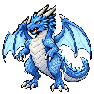
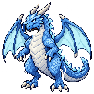
Preserve original dragon face pixels and animate only jaw

Changed region(s): [[0.0851, 0.0213, 0.5957, 0.4255]]

diff --git a/design/enemies/dragon_frost/attack/PROMPT.md b/design/enemies/dragon_frost/attack/PROMPT.md
@@ -1,1 +1,1 @@
-Built-in image_gen edit. Reference: ../move/dragon_frost_1.png. Four-frame open-mouth loop. NO FIRE or particles. Frame1 exact original file. Frames2-4 original body pixels retained, only head/neck area edited. Closed to partial open to full open to partial close. Preserve compact original face and BLUE CYAN EYES, no orange eyes., jaws open, ivory teeth visible. Frame1 medium gape, frame2 wider, frame3 maximum, frame4 return. Preserve blue pixel-art dragon, feet anchored, transparent background. Export: 94x94 PNG; 0.14s per frame.
+Built-in image_gen edit. Reference: ../move/dragon_frost_1.png. Four-frame open-mouth loop. NO FIRE or particles. Frame1 exact original file. Frames2-4 original body pixels retained, only mouth and lower-jaw area edited; skull, small blue eye, horns and face contours remain original pixels. Closed to partial open to full open to partial close, original detailed non-anime face preserved., jaws open, ivory teeth visible. Frame1 medium gape, frame2 wider, frame3 maximum, frame4 return. Preserve blue pixel-art dragon, feet anchored, transparent background. Export: 94x94 PNG; 0.14s per frame.
